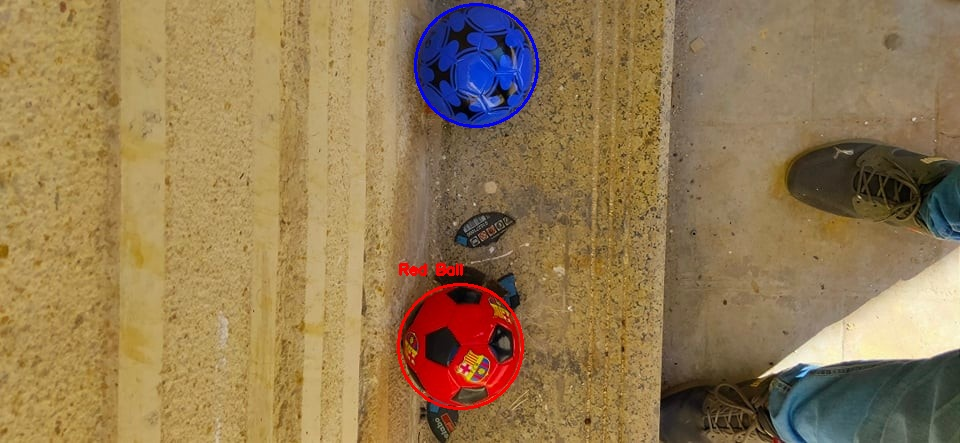
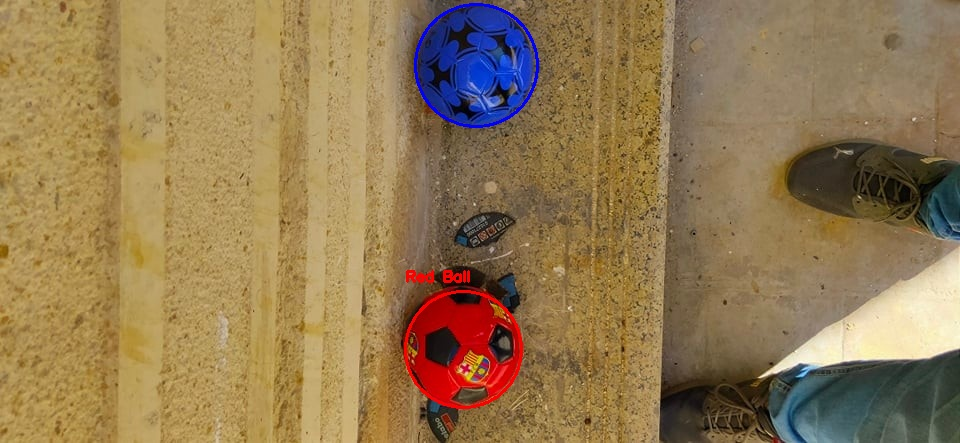
more accurite in red

Changed region(s): [[0.4062, 0.5869, 0.5312, 0.8804], [0.5312, 0.7043, 0.5625, 0.7923], [0.4375, 0.8804, 0.5, 0.9391]]

diff --git a/Task 8/8.1/test3.py b/Task 8/8.1/test3.py
@@ -9,13 +9,13 @@ output_folder = './The_output_circles'
 # Check if the folder is found(if not found, create a new one)
 os.makedirs(output_folder, exist_ok=True)
 
-lower_red1 = np.array([0, 100, 100])
-upper_red1 = np.array([10, 255, 255])
-lower_red2 = np.array([160, 100, 100])
-upper_red2 = np.array([180, 255, 255])
+lower_red1 = np.array([0, 100, 150], dtype=np.uint8)
+upper_red1 = np.array([10, 255, 255], dtype=np.uint8)
+lower_red2 = np.array([160, 100, 100], dtype=np.uint8)
+upper_red2 = np.array([180, 255, 255], dtype=np.uint8)
 
-lower_blue = np.array([110, 50, 50])
-upper_blue = np.array([130, 255, 255])
+lower_blue = np.array([110, 50, 50], dtype=np.uint8)
+upper_blue = np.array([130, 255, 255], dtype=np.uint8)
 
 images = os.listdir(dataset_folder)
 
@@ -51,7 +51,7 @@ for image_name in images:
             circularity = cv2.contourArea(contour) / (np.pi * radius * radius)
             
             # Set a circularity threshold to filter out non-circular objects
-            circularity_threshold = 0.6 
+            circularity_threshold = 0.55 
             
             if circularity >= circularity_threshold:
                 cv2.circle(img, center, radius, (0, 0, 255), 2)
